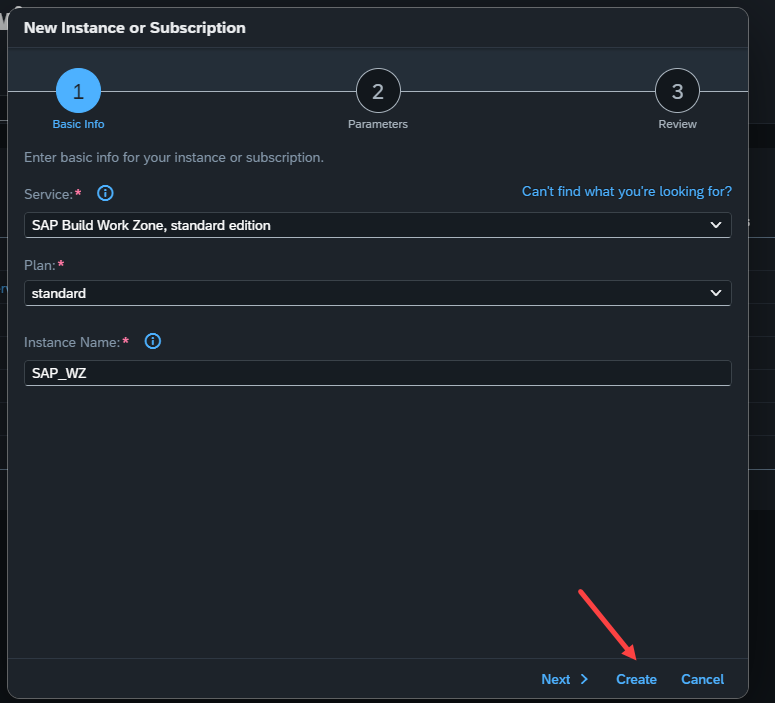
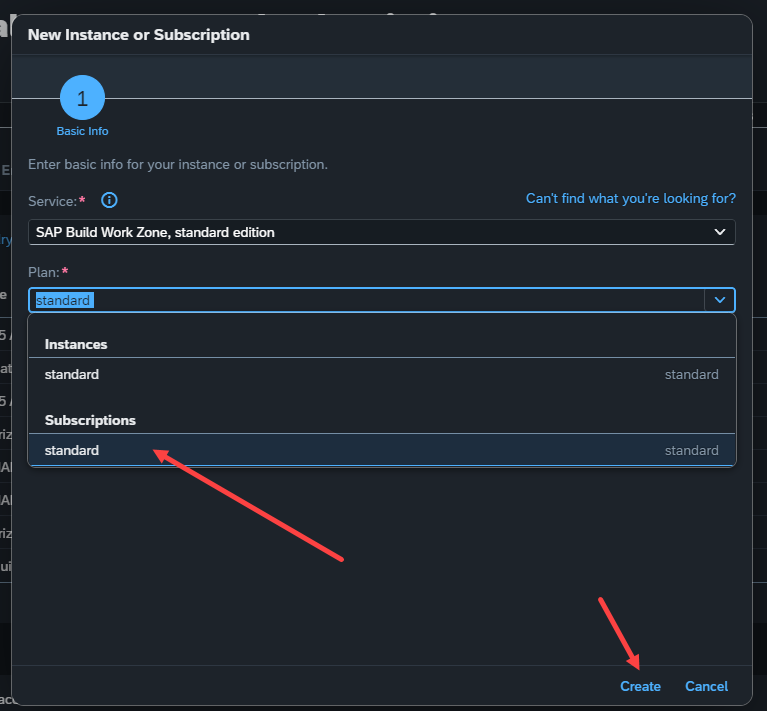
s

diff --git a/CAPM-DAY-9/Readme.md b/CAPM-DAY-9/Readme.md
@@ -596,16 +596,6 @@ To get it we need to create an instance for SAP Build workzone, standard Edition
 </br>
 </br>
 
-We created the instance now we need to create a subscription for this instance separately
-</br>
-</br>
-<img src="./files/capmd9-53.png" >
-</br>
-</br>
-<img src="./files/capmd9-54.png" >
-</br>
-</br>
-</details>
 
 
 <!-- <details>
